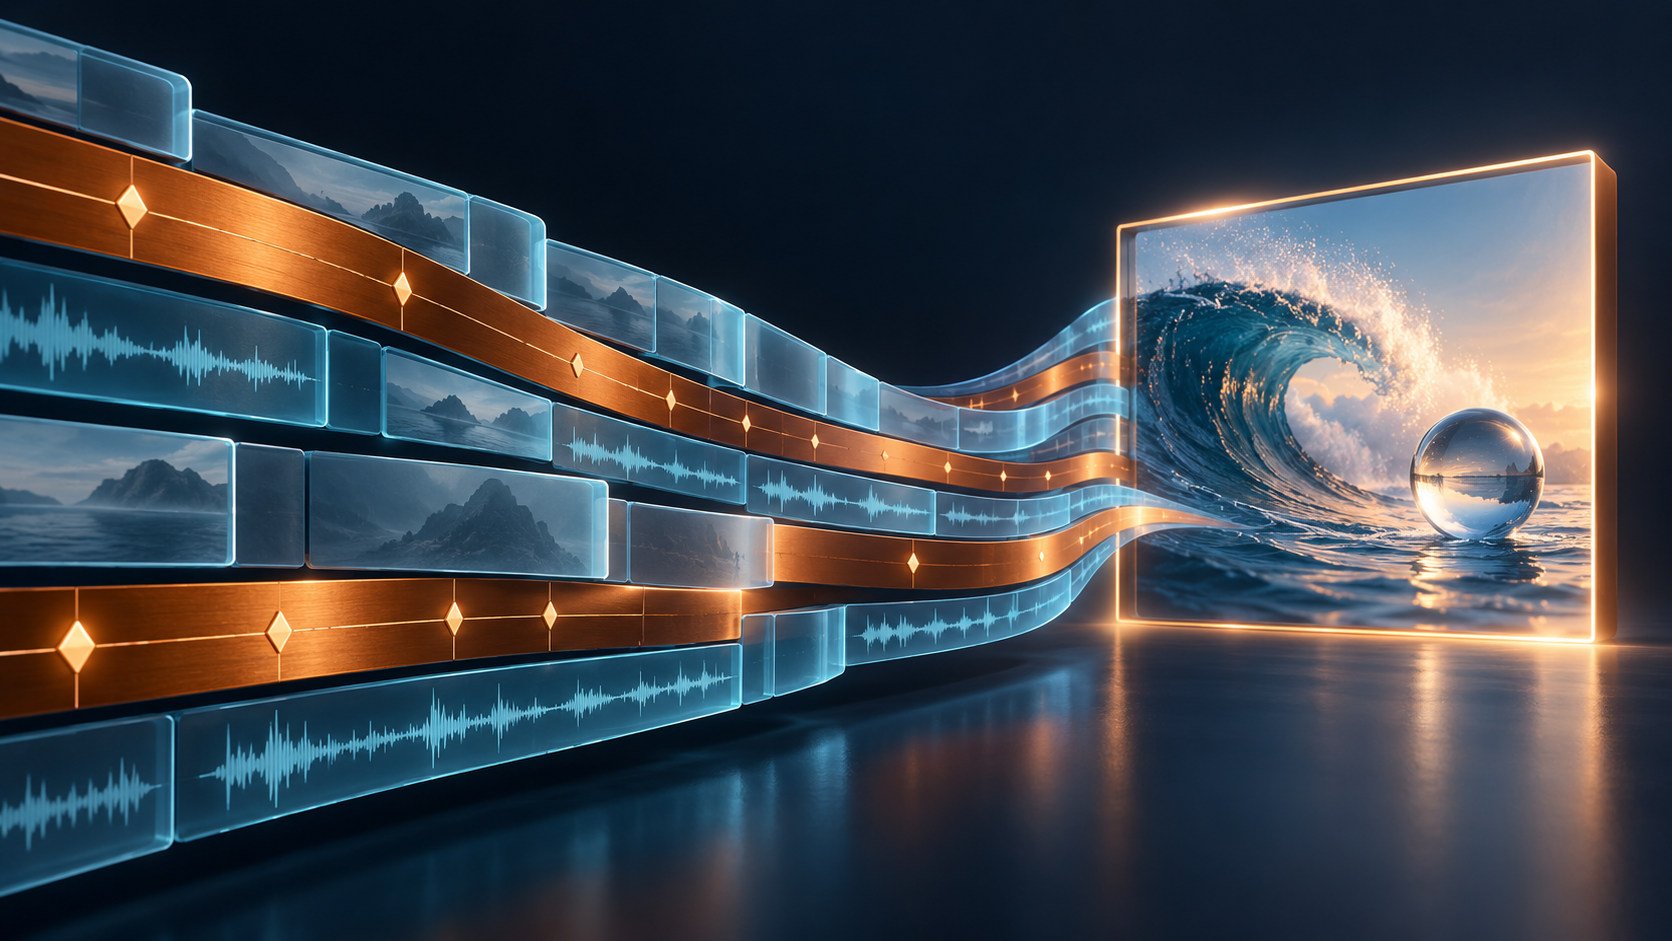
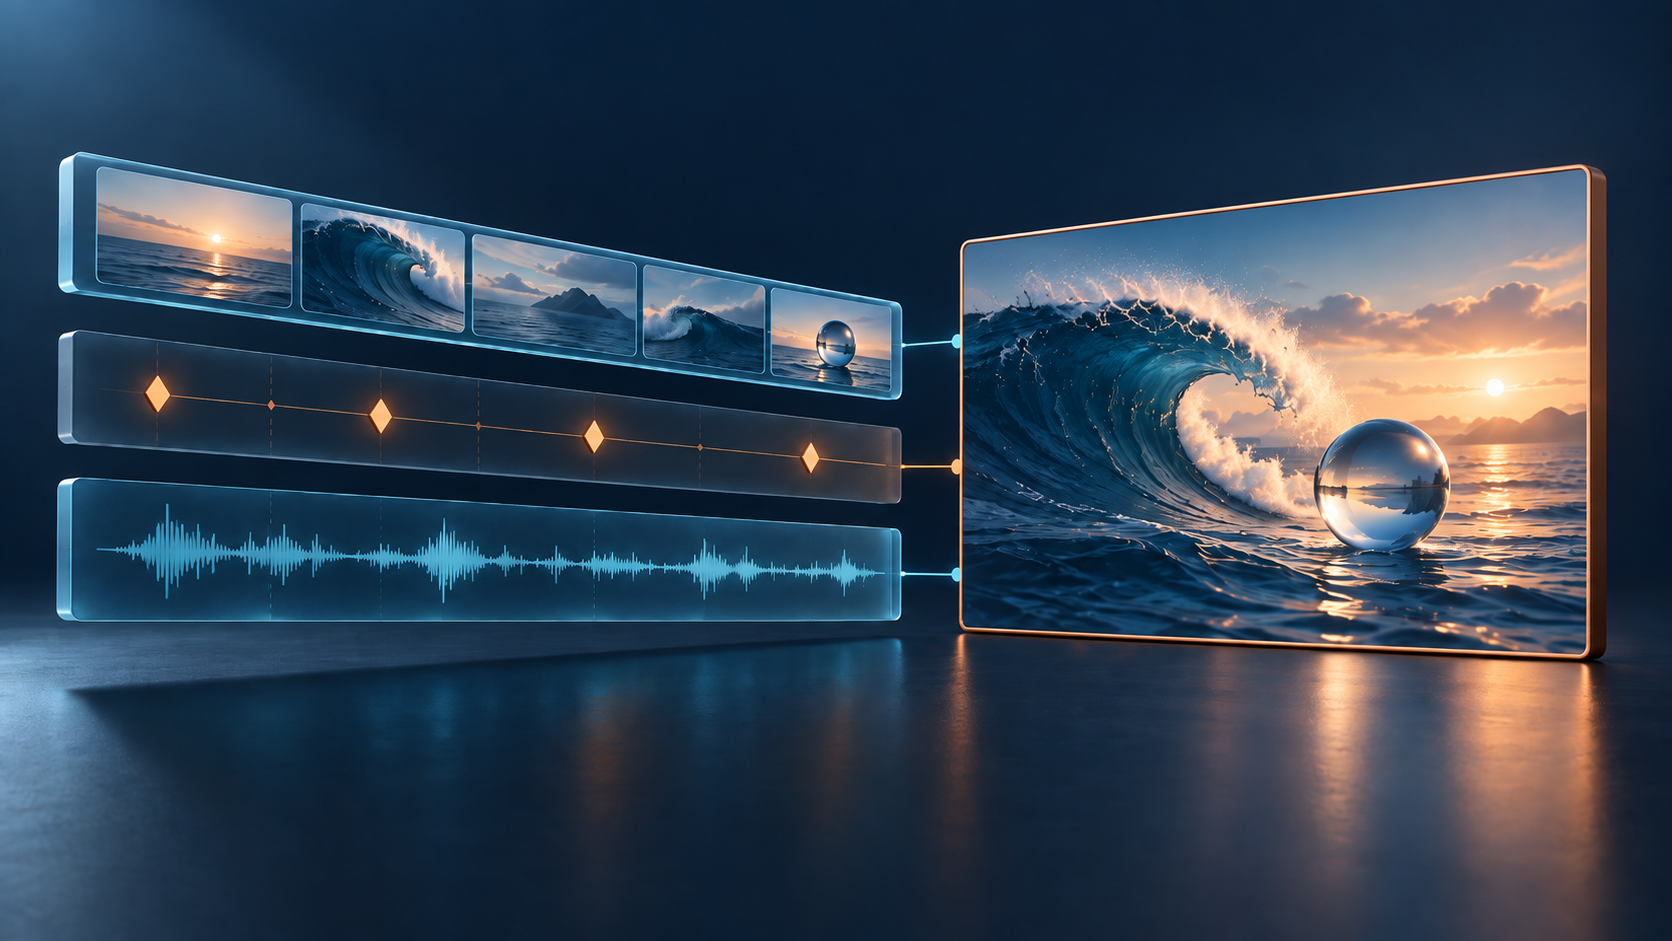
Refine README cover with clearer editing layers

diff --git a/README.md b/README.md
@@ -2,7 +2,7 @@
 
 **Turn a video brief into an editable Blender project—with a script you can run again.**
 
-![Blender Video Tools: layered video timelines flowing into a cinematic ocean composite](assets/readme-cover.png)
+![Blender Video Tools: separate footage, keyframe, and audio layers connected to a finished ocean composite](assets/readme-cover.png)
 
 Blender Video Tools is a Codex plugin for producing and troubleshooting video with Blender Python, the Video Sequence Editor, and FFmpeg. Give Codex your footage and a brief; the skills guide it through source inspection, editorial choices, project construction, rendering, and review.
 
